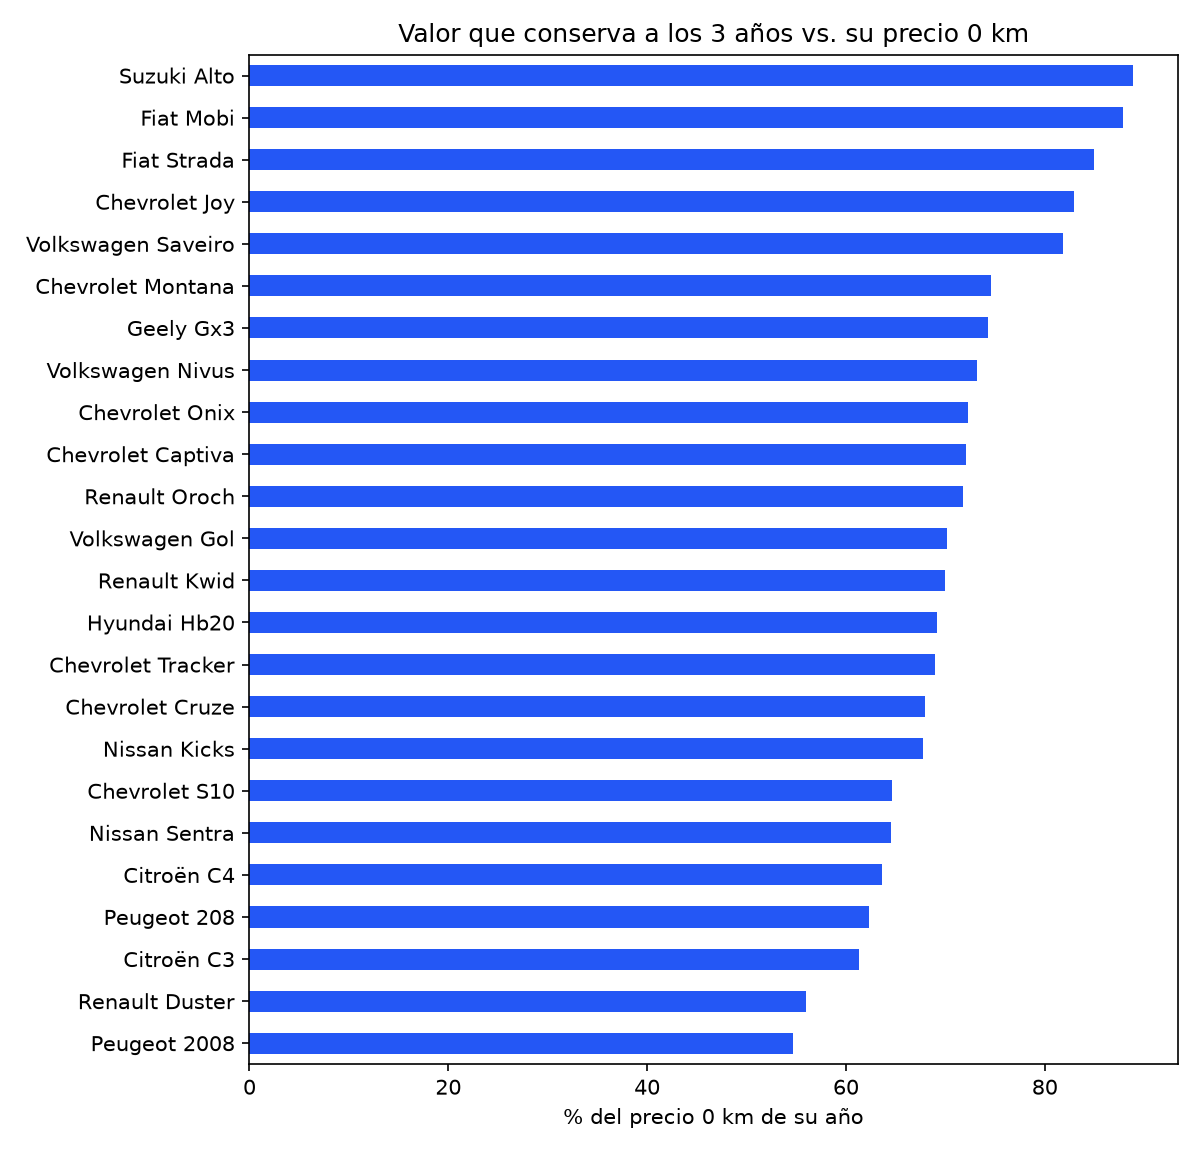
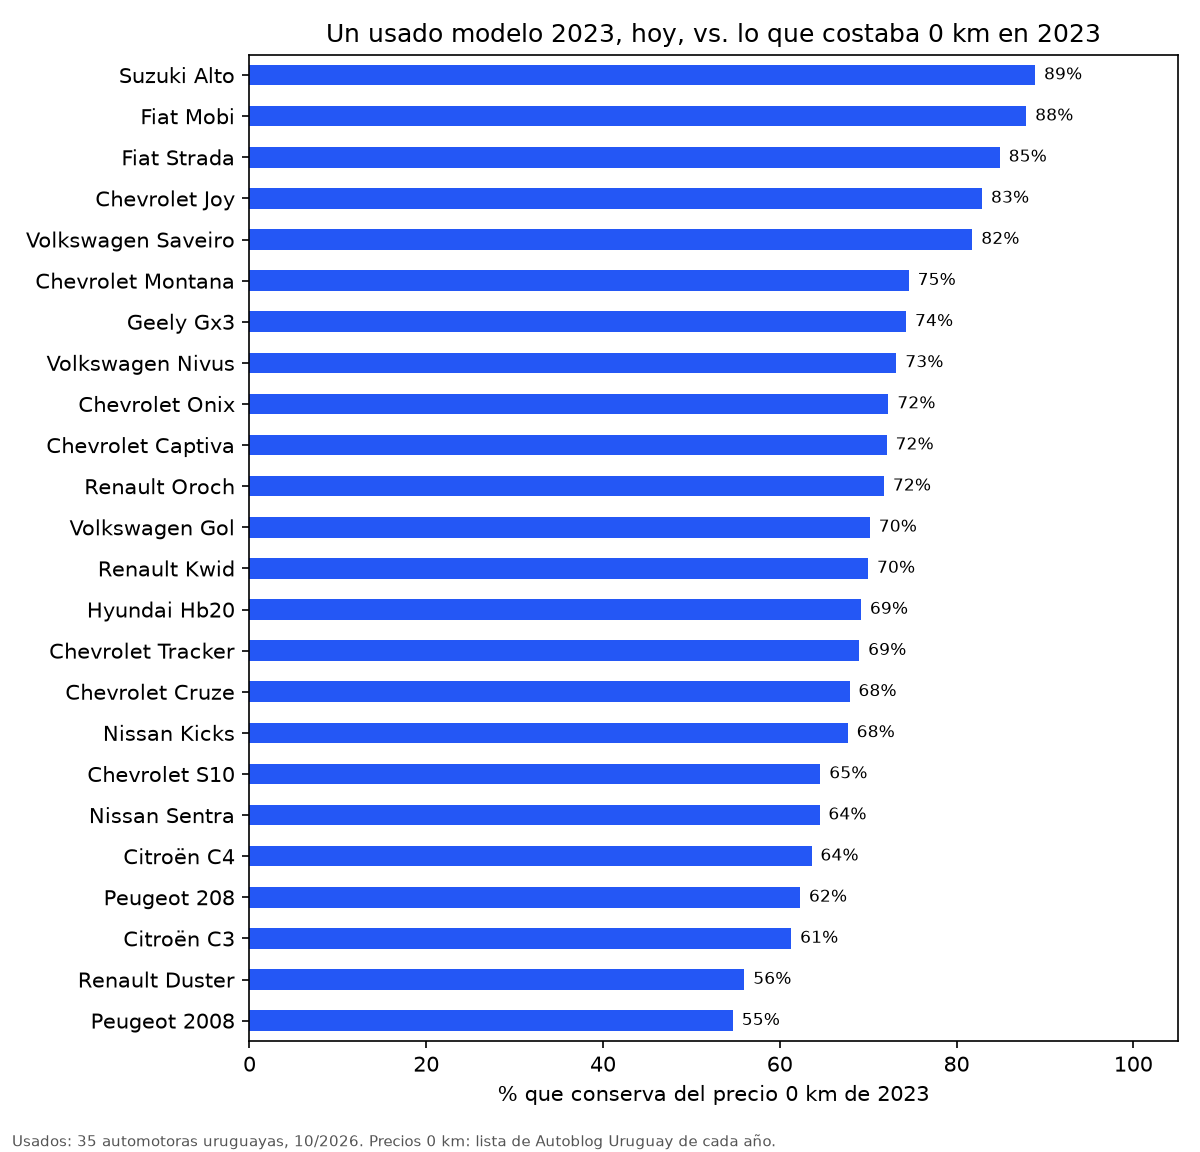
Name the years compared in the value-kept chart
The chart now reads "Un usado modelo 2023, hoy, vs. lo que costaba 0 km en 2023", labels each bar with its percentage and cites its sources, so it can't be read as a comparison with today's 0 km price.

diff --git a/src/vidriera_insights/report.py b/src/vidriera_insights/report.py
@@ -42,6 +42,25 @@ def bar_chart(series: pd.Series, title: str, xlabel: str, path: Path) -> None:
     save_figure(fig, path)
 
 
+def from_new_chart(kept: pd.Series, today: date, dealers: int, path: Path) -> None:
+    """Value kept at 3 years, naming the years compared so it can't be read as vs. today's 0 km price."""
+    model_year = today.year - 3
+    fig, ax = plt.subplots(figsize=(8, max(3, len(kept) * 0.32)))
+    kept.plot.barh(ax=ax, color=ACCENT)
+    for i, value in enumerate(kept):
+        ax.text(value + 1, i, f"{value:.0f}%", va="center", fontsize=8)
+    ax.set_title(f"Un usado modelo {model_year}, hoy, vs. lo que costaba 0 km en {model_year}")
+    ax.set_xlabel(f"% que conserva del precio 0 km de {model_year}")
+    ax.set_ylabel("")
+    ax.set_xlim(0, 105)
+    ax.invert_yaxis()
+    fig.text(0.01, 0.005, f"Usados: {dealers} automotoras uruguayas, {today:%m/%Y}. Precios 0 km: lista de "
+             f"Autoblog Uruguay de cada año.", fontsize=7, color="#555")
+    fig.tight_layout(rect=(0, 0.02, 1, 1))
+    fig.savefig(path, dpi=150)
+    plt.close(fig)
+
+
 def depreciation_chart(curve: pd.DataFrame, path: Path) -> None:
     fig, ax = plt.subplots(figsize=(8, 5))
     ax.plot(curve.index, curve["value_kept_pct"], marker="o", color=ACCENT)
@@ -125,8 +144,7 @@ def main() -> None:
     if not from_new.empty:
         kept = from_new.dropna(subset=["kept_3y_pct"])
         kept = kept.set_index(kept["brand"] + " " + kept["model"])["kept_3y_pct"]
-        bar_chart(kept, "Valor que conserva a los 3 años vs. su precio 0 km", "% del precio 0 km de su año",
-                  OUT / "from_new.png")
+        from_new_chart(kept, today, df["source_name"].nunique(), OUT / "from_new.png")
 
     cv_mean = cv.mean()
     trend_section = (
